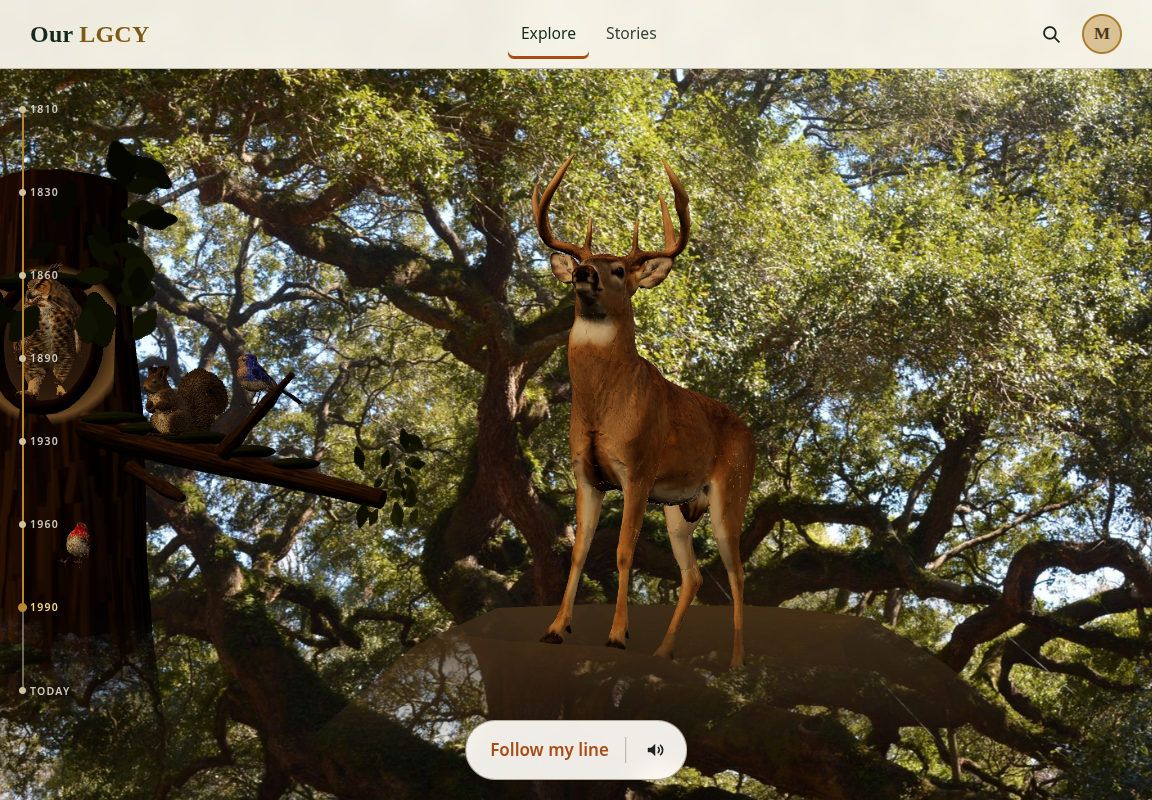
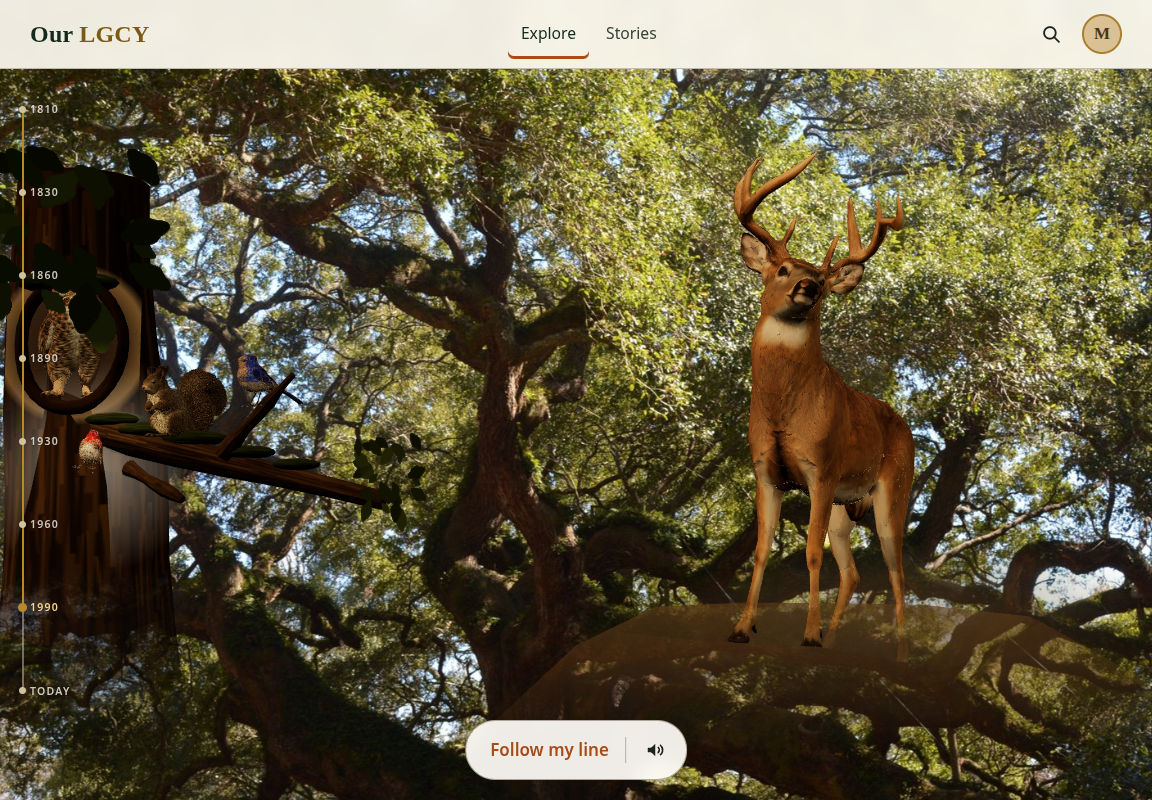
TW-1076 merge-readiness: rebase captures, woodpecker light lift (Rosa N1), mobile framing fix (Rosa N2)
Rebased onto main ce5e15b in a fresh worktree (see the rebased
fauna commit below for the conflict record). This round:

- gl/fauna.js only: the woodpecker leaves the trunk's deepest
  shadow for open bark below the branch root, with a warm
  dapple fleck painted on the bark and a narrow soft-edged
  warm shaft aimed at the perch (blend law: the light lands on
  the tree first). White body reads white, crimson reads
  crimson, wing patch separates, at 1152 and 390.
- Trunk cluster (trunk, hollow, owl, woodpecker) shifted 0.16
  right in local space and the narrow layout adjusted (shift
  1.38, scale 0.82): the owl hollow is fully in frame at both
  widths (harness rect x 13.2 at 1152, 28.7 at 390).
- All composed stills re-captured on the current TW-1152
  composition; harness now crops owl and woodpecker at 390;
  before-lift woodpecker crops preserved in its pack; the
  stale old-base composed-look still retired.
- GLBs untouched (compression stays a founder call, Rosa N3).

diff --git a/gl/fauna.js b/gl/fauna.js
@@ -181,7 +181,12 @@ import { GLTFLoader } from "three/addons/loaders/GLTFLoader.js";
       new THREE.CylinderGeometry(0.38, 0.56, 3.8, 14, 8), 0.04, 6.0
     );
     var trunk = new THREE.Mesh(trunkGeo, trunkMat);
-    trunk.position.set(-2.88, 0.66, 0.0);
+    // TW-1076 merge-readiness (Rosa N2): the whole trunk cluster
+    // (trunk, hollow, owl, woodpecker) sits 0.16 right of its
+    // first staging, so the owl hollow clears the frame edge at
+    // both widths on the TW-1152 composition; the branch root
+    // stays embedded in the trunk at the new center.
+    trunk.position.set(-2.72, 0.66, 0.0);
     trunk.rotation.z = 0.05;
     fauna.add(trunk);
 
@@ -206,8 +211,8 @@ import { GLTFLoader } from "three/addons/loaders/GLTFLoader.js";
       [-1.92, 0.95, 0.44, 0.20, 0.045, 0.12],
       [-1.60, 0.87, 0.50, 0.17, 0.04, 0.11],
       [-1.30, 0.80, 0.56, 0.14, 0.035, 0.10],
-      [-2.80, 1.62, 0.24, 0.30, 0.14, 0.22],
-      [-2.94, -0.30, 0.30, 0.38, 0.20, 0.26]
+      [-2.64, 1.62, 0.24, 0.30, 0.14, 0.22],
+      [-2.78, -0.30, 0.30, 0.38, 0.20, 0.26]
     ];
     mossSpots.forEach(function (m) {
       var s = new THREE.Mesh(new THREE.SphereGeometry(1, 10, 8), mossMat);
@@ -454,7 +459,7 @@ import { GLTFLoader } from "three/addons/loaders/GLTFLoader.js";
       new THREE.PlaneGeometry(0.78, 0.98),
       new THREE.MeshBasicMaterial({ map: hollowTex, transparent: true, depthWrite: false })
     );
-    hollow.position.set(-2.80, 1.50, 0.435);
+    hollow.position.set(-2.64, 1.50, 0.435);
     hollow.renderOrder = 1;
     fauna.add(hollow);
     var rimMat = new THREE.MeshStandardMaterial({
@@ -462,19 +467,19 @@ import { GLTFLoader } from "three/addons/loaders/GLTFLoader.js";
     });
     var rimGeo = displace(new THREE.TorusGeometry(0.335, 0.038, 10, 28), 0.018, 7.0);
     var rim = new THREE.Mesh(rimGeo, rimMat);
-    rim.position.set(-2.80, 1.50, 0.47);
+    rim.position.set(-2.64, 1.50, 0.47);
     rim.scale.set(0.88, 1.12, 1.0);
     fauna.add(rim);
     // moss lip over the hollow's top edge
     var lip = new THREE.Mesh(new THREE.SphereGeometry(1, 10, 8), mossMat);
-    lip.position.set(-2.84, 1.86, 0.44);
+    lip.position.set(-2.68, 1.86, 0.44);
     lip.scale.set(0.30, 0.07, 0.14);
     fauna.add(lip);
 
     loadResident({
       key: "owl",
       glb: "gl/animals/owl-rigged.glb",
-      pos: [-2.80, 1.16, 0.40],
+      pos: [-2.64, 1.16, 0.40],
       rot: [0, -0.12, 0],
       scale: 1.45,
       idle: "Owl_Idle",
@@ -491,10 +496,52 @@ import { GLTFLoader } from "three/addons/loaders/GLTFLoader.js";
       gestures: ["Jay_Look", "Jay_Peck"],
       gap: [15, 26]
     });
+    // The woodpecker's dapple (Rosa N1, merge-readiness round):
+    // its first staging clung low on the trunk in the deepest
+    // shadow, where the verified paint read mottled gray-brown
+    // and the wing patch vanished. It now clings higher, where a
+    // break in the canopy reaches the bark: a soft warm fleck
+    // painted on the trunk itself plus a narrow, soft-edged warm
+    // shaft from the canopy side, the same treatment that lets
+    // the jay's blue survive the scene light. The perch itself
+    // sits on open bark below the branch root, so the cling and
+    // the braced tail read whole instead of disappearing behind
+    // the limb. The fleck lands on
+    // the tree first and the bird second, so it reads as dappled
+    // sunlight, not a spotlight; the cone is aimed at the perch
+    // and falls off well before the squirrel, the jay, or the
+    // buck. Contact stays honest: the tail brace and feet still
+    // meet the same bark, in the same cling pitch.
+    var dappleC = document.createElement("canvas");
+    dappleC.width = 128; dappleC.height = 160;
+    var dg = dappleC.getContext("2d");
+    var dgrad = dg.createRadialGradient(64, 80, 6, 64, 80, 78);
+    dgrad.addColorStop(0, "rgba(255,206,128,0.52)");
+    dgrad.addColorStop(0.55, "rgba(255,182,98,0.24)");
+    dgrad.addColorStop(1, "rgba(255,182,98,0)");
+    dg.fillStyle = dgrad;
+    dg.fillRect(0, 0, 128, 160);
+    var dapple = new THREE.Mesh(
+      new THREE.PlaneGeometry(1.05, 1.3),
+      new THREE.MeshBasicMaterial({
+        map: new THREE.CanvasTexture(dappleC),
+        transparent: true, depthWrite: false
+      })
+    );
+    dapple.position.set(-2.54, 0.78, 0.415);
+    dapple.rotation.y = 0.10;
+    dapple.renderOrder = 1;
+    fauna.add(dapple);
+    var shaft = new THREE.SpotLight(0xffd9a3, 2.0, 3.5, 0.42, 0.9, 1.6);
+    shaft.position.set(-2.05, 1.75, 1.35);
+    shaft.target.position.set(-2.52, 0.72, 0.45);
+    fauna.add(shaft);
+    fauna.add(shaft.target);
+
     loadResident({
       key: "woodpecker",
       glb: "gl/animals/woodpecker-rigged.glb",
-      pos: [-2.60, 0.18, 0.44],
+      pos: [-2.52, 0.72, 0.47],
       rot: [-0.62, 0.12, 0],
       scale: 2.6,
       idle: "Woodpecker_Idle",
@@ -510,12 +557,14 @@ import { GLTFLoader } from "three/addons/loaders/GLTFLoader.js";
       var cam = buck.camera;
       if (!cam) return;
       var narrow = cam.aspect < 1.1;
-      // 1.28, not the squirrel-only era's 0.92: with four
-      // residents the trunk cluster (owl, woodpecker) sat almost
-      // entirely off-frame at 0.92; 1.28 keeps the squirrel clear
-      // of the buck and brings the trunk birds into the frame
-      fauna.position.set(narrow ? 1.28 : 0, narrow ? -0.34 : 0, 0);
-      fauna.scale.setScalar(narrow ? 0.85 : 1);
+      // 1.38 and 0.82, re-measured on the TW-1152 composition
+      // (Rosa N2): at 1.28 and 0.85 the owl hollow still cropped
+      // at the left edge at 390; together with the trunk
+      // cluster's local shift right, this keeps the hollow whole
+      // in frame while the squirrel stays clear of the buck, who
+      // now stands further right than he did on the old base
+      fauna.position.set(narrow ? 1.38 : 0, narrow ? -0.34 : 0, 0);
+      fauna.scale.setScalar(narrow ? 0.82 : 1);
     }
     layoutFauna();
     window.addEventListener("resize", layoutFauna);

diff --git a/qa/tw1076-squirrel/capture.py b/qa/tw1076-squirrel/capture.py
@@ -146,6 +146,26 @@ try:
             print(f"@@MRECT@@ {fn}", mpage.evaluate(f"() => window.__lgcyBuck.{fn}()"))
         mpage.screenshot(path=f"{OUT}/composed-390.png", timeout=120000)
         print("@@SHOT@@ composed-390.png")
+
+        # native-size mobile crops: the owl hollow framing (Rosa N2)
+        # and the woodpecker light read (Rosa N1) are judged at 390
+        # from these, not from the full-frame still
+        def mcrop(rect_fn, path, pad=26):
+            rect = mpage.evaluate(f"() => window.__lgcyBuck.{rect_fn}()")
+            clip = {
+                "x": max(0, rect["x"] - pad),
+                "y": max(0, rect["y"] - pad),
+                "width": rect["width"] + 2 * pad,
+                "height": rect["height"] + 2 * pad,
+            }
+            mpage.screenshot(path=path, clip=clip, timeout=120000)
+            print("@@SHOT@@", path)
+
+        mcrop("owlRect", f"{ROOT}/qa/tw1076-owl/owl-final-size-390.png")
+        mcrop(
+            "woodpeckerRect",
+            f"{ROOT}/qa/tw1076-woodpecker/woodpecker-final-size-390.png",
+        )
         mctx.close()
         browser.close()
 finally:

diff --git a/qa/tw1076-woodpecker/EVIDENCE.md b/qa/tw1076-woodpecker/EVIDENCE.md
@@ -76,4 +76,43 @@ page), woodpecker-peck-composed.png (mid-burst in the composed
 page), and the shared composed-1152.png / composed-390.png in
 qa/tw1076-squirrel/.
 
+## Merge-readiness addendum (Rosa N1 and N2, Nov 16)
+
+The branch was rebased onto main ce5e15b (the TW-1152
+composition) and everything below was re-captured there.
+
+N1, the light lift. Rosa's read on the old base: the paint was
+verified correct, but composed low on the trunk in its deepest
+shadow the white body read mottled gray-brown and the wing and
+patch separation was lost (woodpecker-before-lift.png and
+woodpecker-before-lift-390.png, captured on the rebased branch
+before this fix, preserve that read). The fix is staging and
+light, not paint: the bird now clings on open bark below the
+branch root, higher on the trunk, where a soft warm fleck is
+painted on the bark itself and a narrow soft-edged warm shaft
+(SpotLight, penumbra 0.9, aimed at the perch, falling off well
+before the squirrel, the jay, and the buck) stands in for a
+break in the canopy. The fleck lands on the tree first and the
+bird second, so it reads as dappled sunlight under the blend
+law, not as a spotlight; the cling pitch, tail brace, and
+contact with the bark are unchanged. After: in
+woodpecker-final-size.png and woodpecker-final-size-390.png
+the white body reads white, the crimson head reads crimson,
+and the black wing and its white patch separate from the body
+at both widths; woodpecker-peck-composed.png shows the same
+read mid-burst.
+
+N2, mobile framing. On the old base the fauna cluster
+compressed to the left edge at 390 and the owl hollow cropped.
+On the current composition, after a 0.16 local shift of the
+whole trunk cluster (trunk, hollow, owl, woodpecker) and a
+narrow-layout adjustment in gl/fauna.js (shift 1.38, scale
+0.82), the harness rects read: owl x 13.2 at 1152 and x 28.7
+at 390 (both fully in frame; the same crop was x -15.1 and
+x -13.8 before the shift), woodpecker x 59.2 at 1152 and
+x 57.0 at 390. New mobile crops: owl-final-size-390.png in
+qa/tw1076-owl/ and woodpecker-final-size-390.png here; the
+harness (qa/tw1076-squirrel/capture.py) now takes both on
+every run.
+
 Prepared by Twistor Holdings LLC

diff --git a/qa/tw1076-squirrel/EVIDENCE.md b/qa/tw1076-squirrel/EVIDENCE.md
@@ -97,11 +97,22 @@ and rarer than his.
 - Stills in this folder: composed-1152.png (desktop),
   composed-390.png (mobile), squirrel-final-size.png (the animal
   cropped at native pixels, final size, for judging the blend),
-  composed-nibble-1152.png and composed-look-1152.png (posed
-  gestures in the composed page). Capture method: Playwright
+  composed-nibble-1152.png (a posed gesture in the composed
+  page). Capture method: Playwright
   under SwiftShader with the ?gl=force-a QA override and a
   network-level Lenis stub, harness only (capture.py here);
   page code untouched.
+
+## Merge-readiness re-capture (Nov 16)
+
+The composed stills in this folder were re-captured after the
+branch rebased onto main ce5e15b, so they show the fauna on
+the current TW-1152 composition (the buck at the right edge,
+the warm blend rig), not the old base. The round also fixed
+the mobile framing Rosa flagged as N2 and the woodpecker
+light read she flagged as N1; both are documented in
+qa/tw1076-woodpecker/EVIDENCE.md, and the harness now crops
+the owl and the woodpecker at 390 on every run.
 
 ## Reference comparison
 
